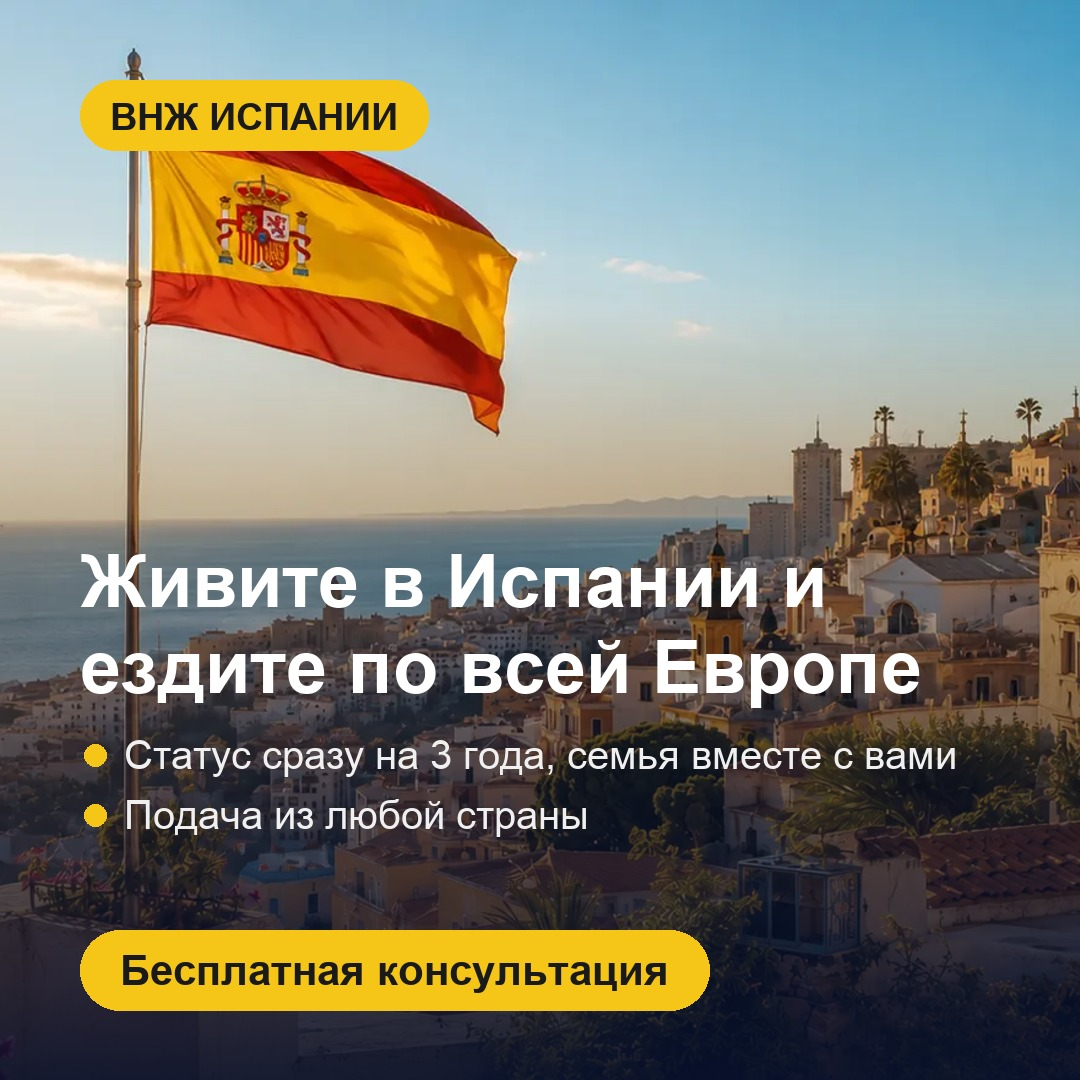
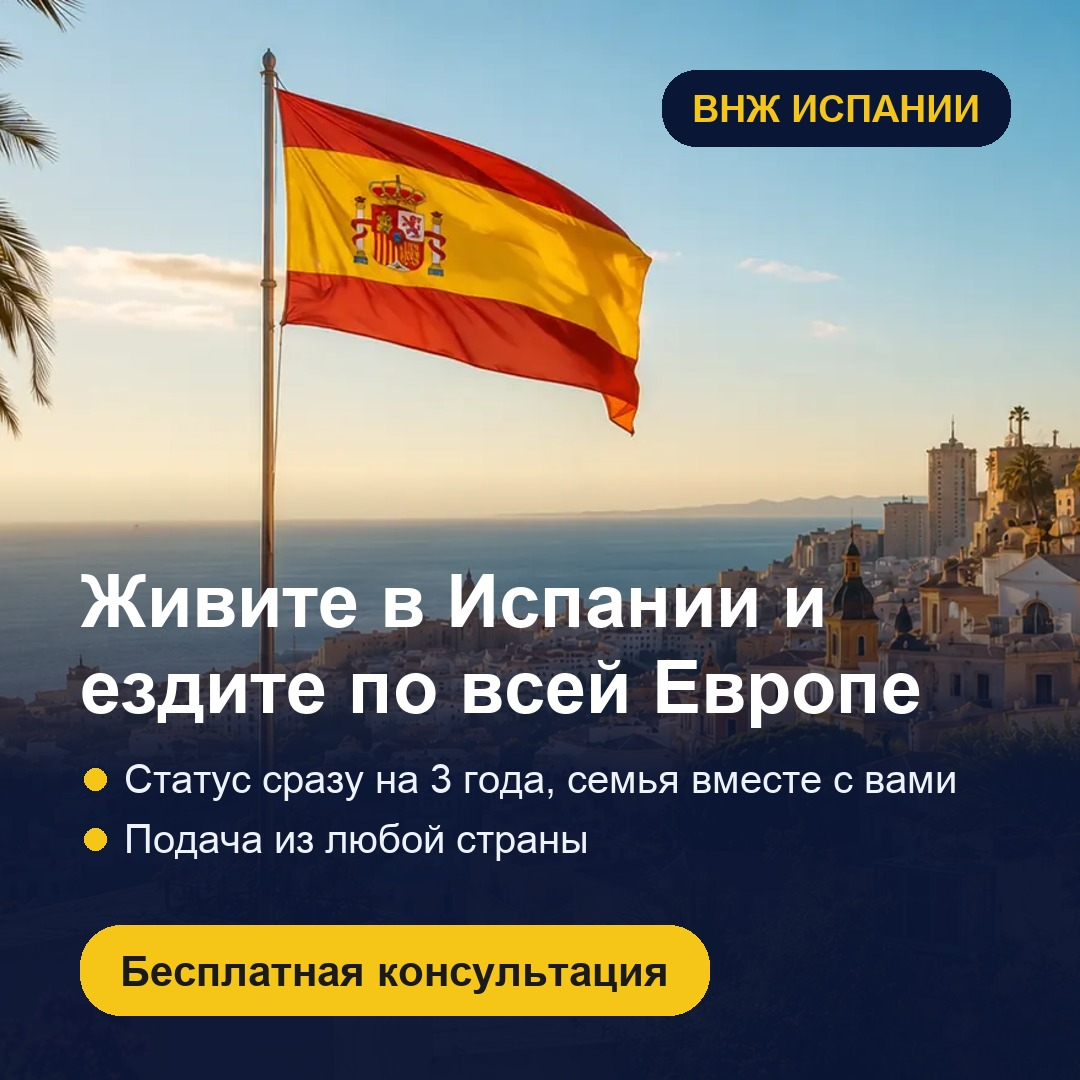
Креативы ВНЖ: плашка не на флаге, сторис с полным флагом и текстом на тёмном блоке

diff --git a/vscom/tools/meta_creatives.py b/vscom/tools/meta_creatives.py
@@ -86,34 +86,75 @@ for args in ETA:
     eta(*args, H=1920, suffix="_9x16")  # 9:16 — сторис и Reels
 
 # ВНЖ Испании: фото + плашка
-def vnj(H=W, suffix=""):
-    top = 80 if H == W else 260          # сторис: сверху место под имя аккаунта
+NAVY = (10, 22, 54)
+GOLD = "#F5C518"
+FLAG_X = 712          # центр флага на hero-spain.webp, px исходника
+
+
+def photo(h):
+    """Фото высотой h, кадр шириной W с флагом левее центра."""
     src = Image.open(IMG + "hero-spain.webp").convert("RGB")
-    s = H / src.height
-    src = src.resize((int(src.width * s), H))
-    left = (src.width - W) // 2
-    im = src.crop((left, 0, left + W, H))
-    ov = Image.new("RGBA", (W, H), (0, 0, 0, 0))
+    k = h / src.height
+    src = src.resize((int(src.width * k), h))
+    left = max(0, min(src.width - W, int(FLAG_X * k) - int(W * 0.42)))
+    return src.crop((left, 0, left + W, h))
+
+
+def shade(im, y0, y1, a_max=245):
+    """Затемнение в тёмно-синий от y0 (прозрачно) до y1 (a_max) и ниже."""
+    w, h = im.size
+    ov = Image.new("RGBA", (w, h), (0, 0, 0, 0))
     od = ImageDraw.Draw(ov)
-    for yy in range(H):
-        a = int(max(0, (yy - 0.28 * H) / (0.72 * H)) * 235)
-        od.line([(0, yy), (W, yy)], fill=(8, 18, 45, a))
-    im = Image.alpha_composite(im.convert("RGBA"), ov).convert("RGB")
-    d = ImageDraw.Draw(im)
-    d.rounded_rectangle([80, top, 80 + d.textlength("ВНЖ ИСПАНИИ", font=font(True, 38)) + 60, top + 70], 35, fill="#F5C518")
-    d.text((110, top + 15), "ВНЖ ИСПАНИИ", font=font(True, 38), fill="#1A1A1A")
-    oy = H - W if H == W else H - W - 300   # сторис: снизу место под кнопку
-    y = 540 + oy
+    for yy in range(h):
+        a = 0 if yy < y0 else int(min(1, (yy - y0) / max(1, y1 - y0)) * a_max)
+        od.line([(0, yy), (w, yy)], fill=NAVY + (a,))
+    return Image.alpha_composite(im.convert("RGBA"), ov).convert("RGB")
+
+
+def pill(d, x, y, text, size, bg, fg, pad=30, right=False):
+    f = font(True, size)
+    tw = d.textlength(text, font=f)
+    if right:
+        x = x - tw - 2 * pad
+    d.rounded_rectangle([x, y, x + tw + 2 * pad, y + size + 2 * (pad // 2) + 8], (size + pad) // 2, fill=bg)
+    d.text((x + pad, y + pad // 2 + 2), text, font=f, fill=fg)
+    return y + size + 2 * (pad // 2) + 8
+
+
+def vnj_text(d, y):
     for ln in wrap(d, "Живите в Испании и ездите по всей Европе", font(True, 74), W - 160):
         d.text((80, y), ln, font=font(True, 74), fill="white"); y += 86
-    y += 20
+    y += 24
     for b in ["Статус сразу на 3 года, семья вместе с вами", "Подача из любой страны"]:
-        d.ellipse([84, y + 12, 106, y + 34], fill="#F5C518")
-        d.text((124, y), b, font=font(False, 40), fill="#F0F0F0"); y += 60
-    d.rounded_rectangle([80, 930 + oy, 80 + d.textlength("Бесплатная консультация", font=font(True, 42)) + 80, 1010 + oy], 40, fill="#F5C518")
-    d.text((120, 946 + oy), "Бесплатная консультация", font=font(True, 42), fill="#1A1A1A")
-    save(im, "vnj_es", suffix)
+        d.ellipse([84, y + 12, 106, y + 34], fill=GOLD)
+        d.text((124, y), b, font=font(False, 40), fill="#EEF2FA"); y += 60
+    return y
+
+
+def vnj():
+    # Лента 1:1: флаг сверху-слева, плашка — тёмная справа на небе, текст на затемнении снизу
+    im = shade(photo(W), 470, 780)
+    d = ImageDraw.Draw(im)
+    pill(d, W - 70, 70, "ВНЖ ИСПАНИИ", 38, NAVY, GOLD, right=True)
+    vnj_text(d, 560)
+    pill(d, 80, 925, "Бесплатная консультация", 42, GOLD, "#1A1A1A", pad=40)
+    save(im, "vnj_es", "")
+
+
+def vnj_story():
+    # Сторис 9:16: фото с флагом в верхних 1250 px, ниже — тёмно-синий блок с текстом.
+    # Сверху ~200 px и снизу ~300 px перекрывают имя аккаунта и кнопка — там ничего важного.
+    H = 1920
+    im = Image.new("RGB", (W, H), NAVY)
+    im.paste(photo(1250), (0, 0))
+    im = shade(im, 820, 1250, 255)
+    d = ImageDraw.Draw(im)
+    y = pill(d, 80, 1130, "ВНЖ ИСПАНИИ", 38, GOLD, "#1A1A1A") + 34
+    y = vnj_text(d, y)
+    pill(d, 80, y + 40, "Бесплатная консультация", 42, GOLD, "#1A1A1A", pad=40)
+    save(im, "vnj_es", "_9x16")
+
 
 vnj()
-vnj(H=1920, suffix="_9x16")
+vnj_story()
 print("ok", sorted(DIRS.values()))
